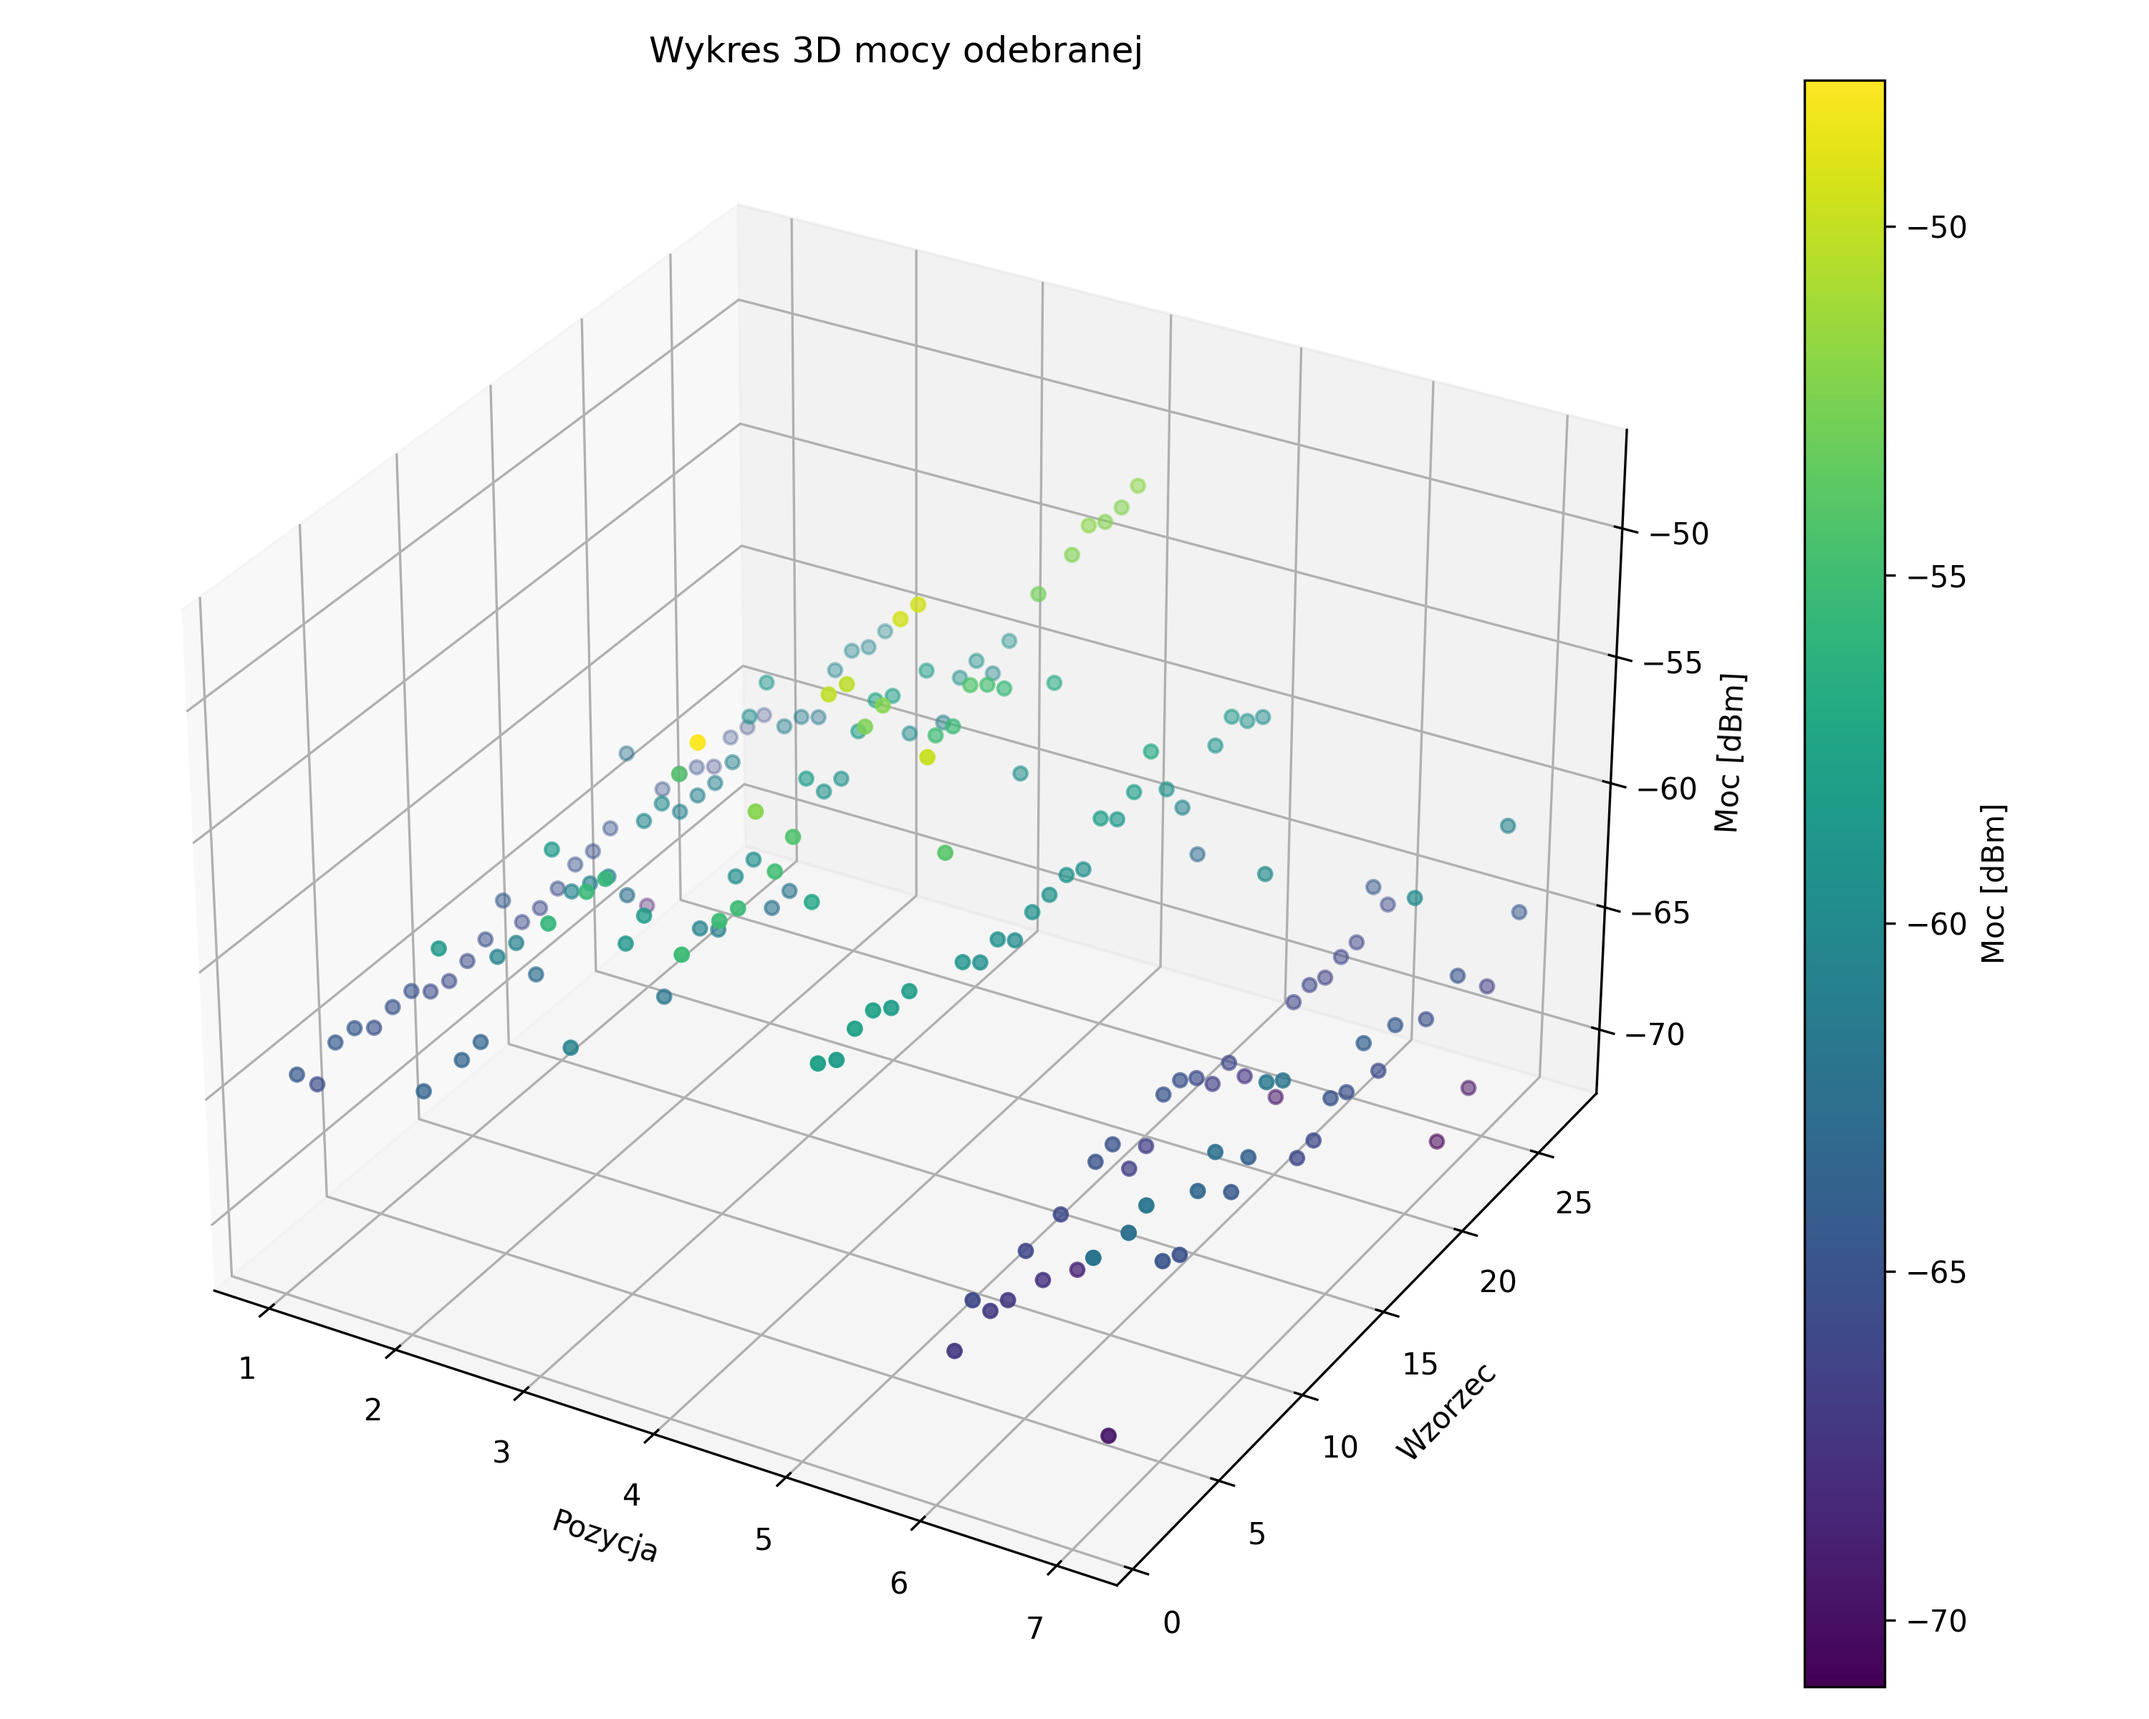
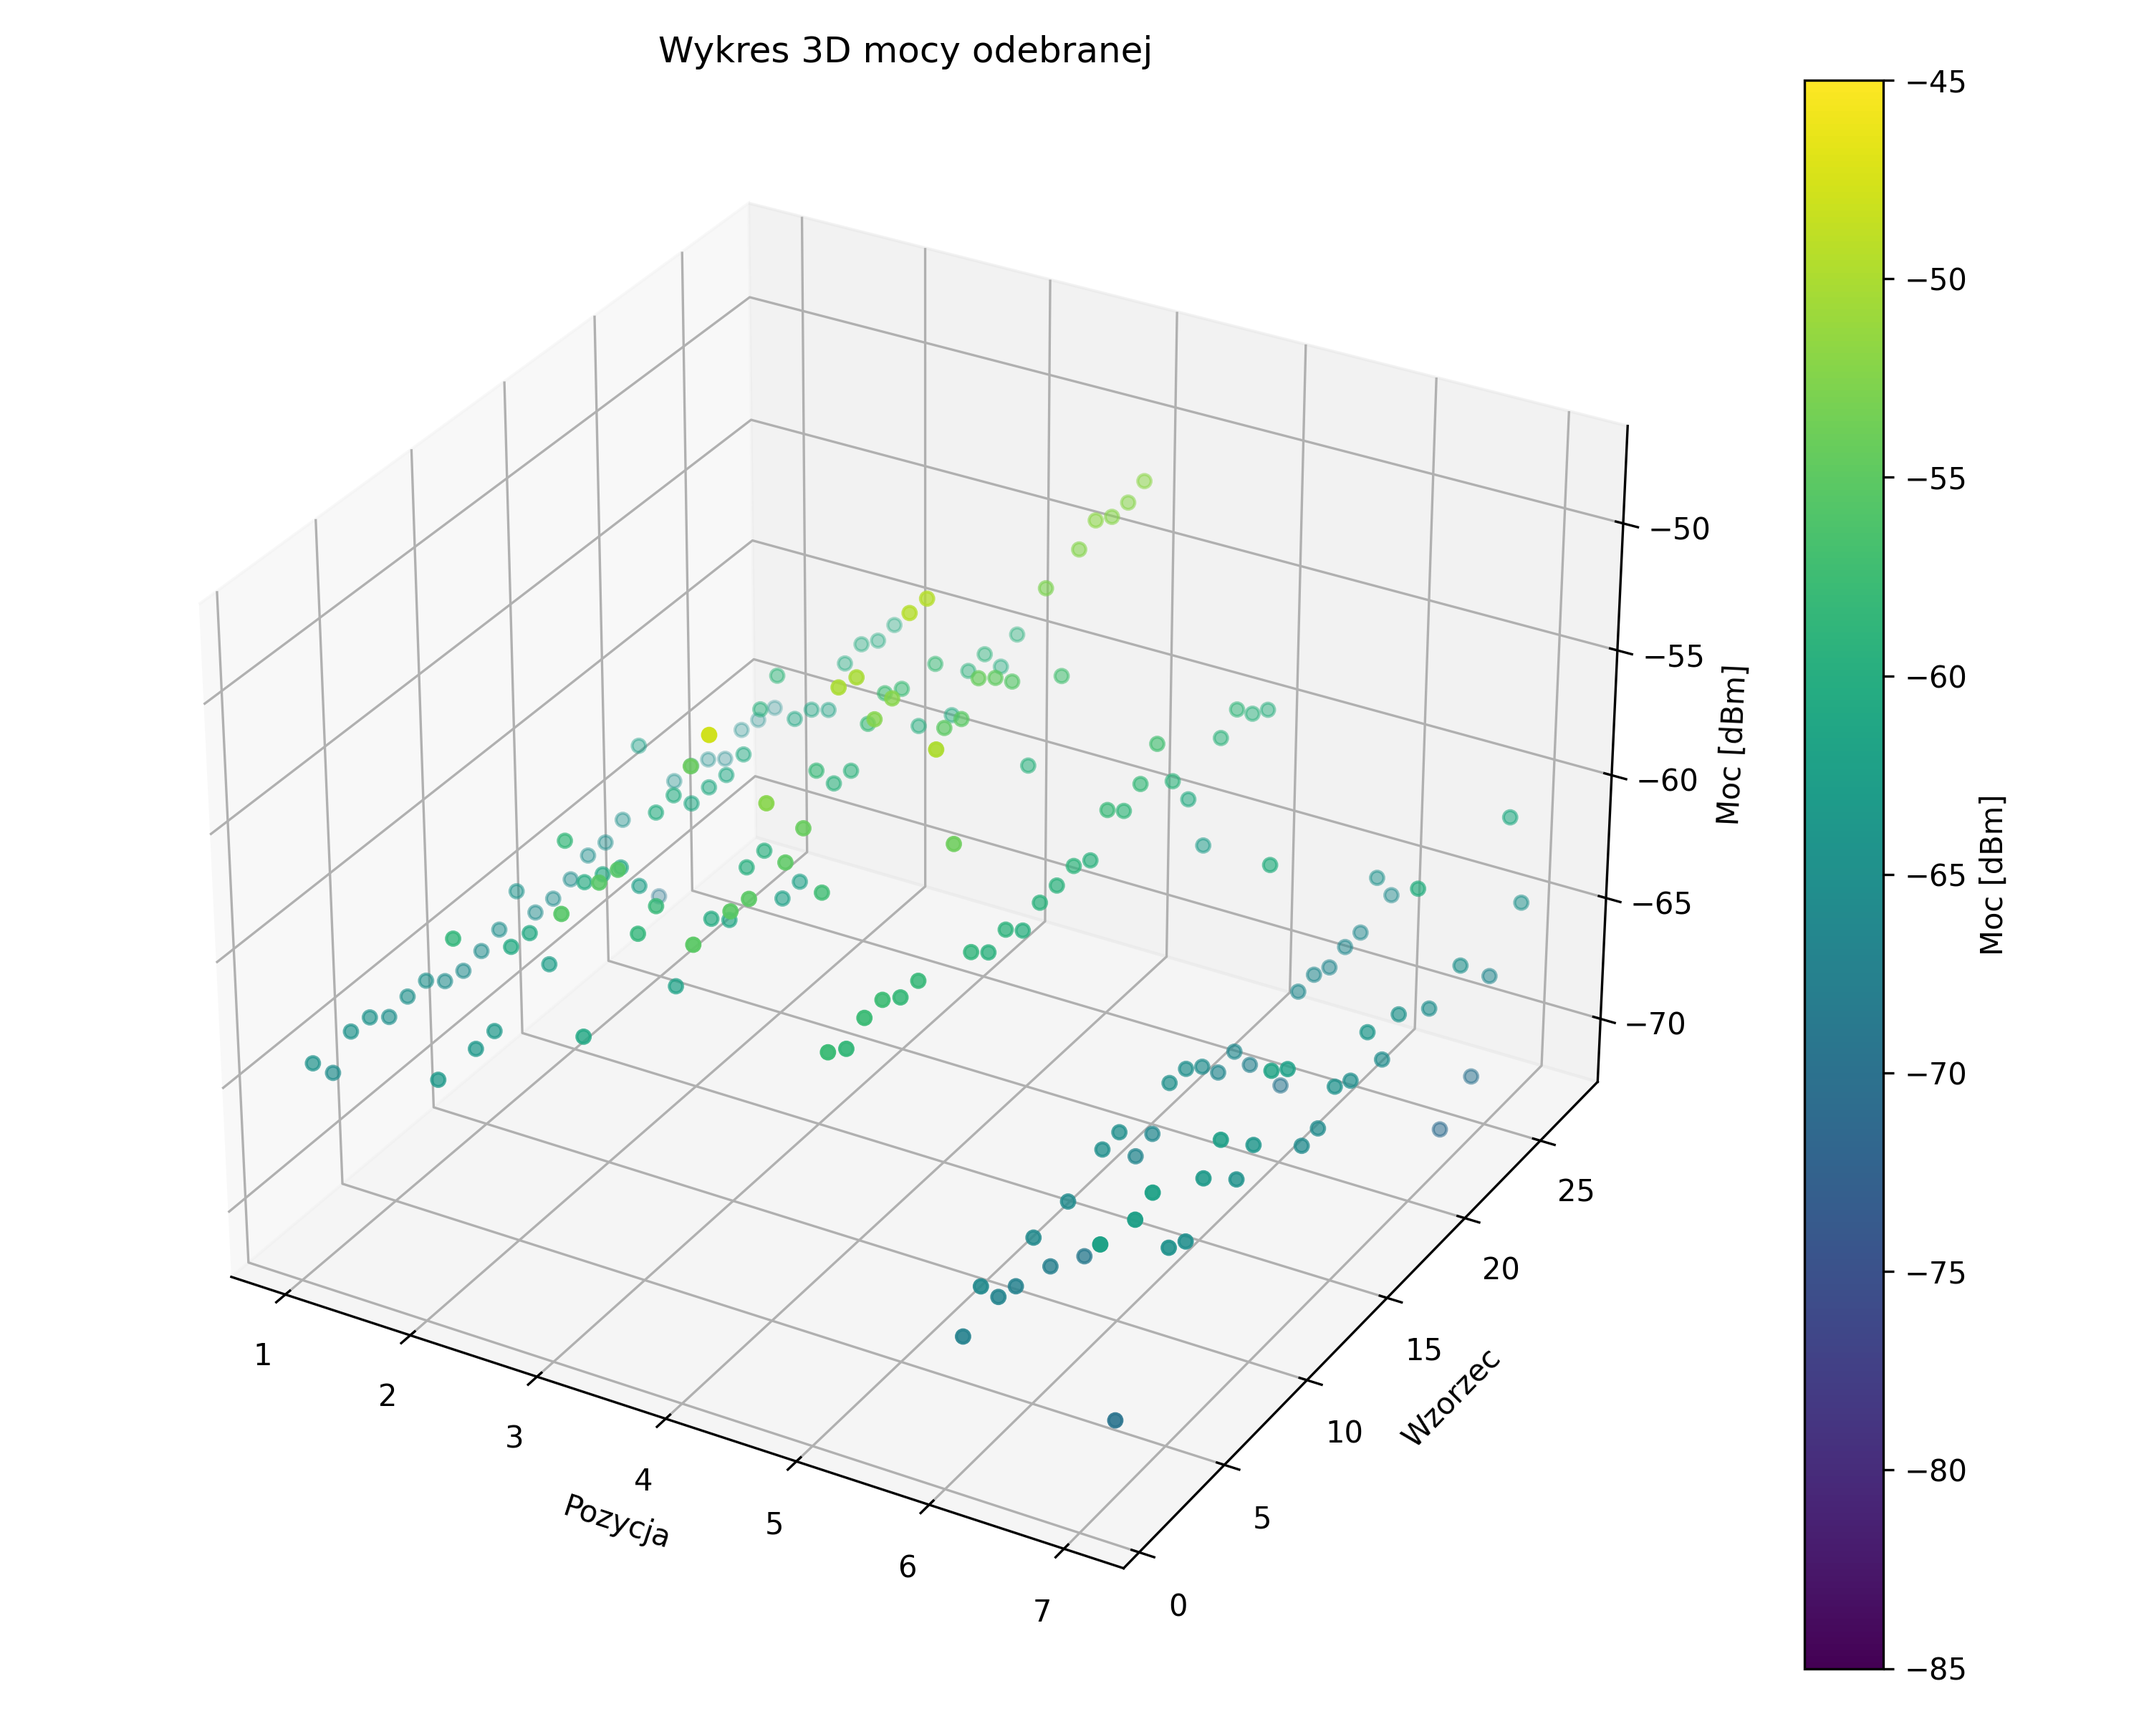
poprawione skale

diff --git a/Suwnica programy i wykresy/combo.py b/Suwnica programy i wykresy/combo.py
@@ -5,21 +5,27 @@ import seaborn as sns
 import os
 
 # Ścieżka do folderu zapisu
-output_folder = "/Users/pawelplaczkiewicz/Documents/Dokumenty – Mac mini (Paweł)/GitHub/Python_RIS/Suwnica/wykresy/112_90"  # <- ZMIEŃ TĘ ŚCIEŻKĘ
+output_folder = "/Users/pawelplaczkiewicz/Documents/Dokumenty – Mac mini (Paweł)/GitHub/Python_RIS/Suwnica programy i wykresy/wykresy/bez_skrzynii"  # <- ZMIEŃ TĘ ŚCIEŻKĘ
 os.makedirs(output_folder, exist_ok=True)
 
 # Wczytaj dane
 df = pd.read_csv(
-    "/Users/pawelplaczkiewicz/Documents/Dokumenty – Mac mini (Paweł)/GitHub/Python_RIS/DANE_Z_POMIAROW/V2X_INFOCOM2024/suwnica_LAB_28_05_25/28_05_25_suwnica_112_90cm.csv",
+    "/Users/pawelplaczkiewicz/Documents/Dokumenty – Mac mini (Paweł)/GitHub/Python_RIS/DANE_Z_POMIAROW/V2X_INFOCOM2024/suwnica_LAB_28_05_25/28_05_suwnica_bez_skrzynii.csv",
     sep=";",
     header=None,
     names=["Pattern", "Position", "Frequency", "Power"],
 )
 
+# Skala kolorów
+vmin = -85
+vmax = -45
+
 # ====== HEATMAPA ======
 plt.figure(figsize=(10, 8))
 pivot = df.pivot(index="Pattern", columns="Position", values="Power")
-sns.heatmap(pivot, cmap="viridis", cbar_kws={"label": "Moc [dBm]"})
+sns.heatmap(
+    pivot, cmap="viridis", vmin=vmin, vmax=vmax, cbar_kws={"label": "Moc [dBm]"}
+)
 plt.title("Mapa mocy odebranej (Pattern vs Position)")
 plt.xlabel("Pozycja")
 plt.ylabel("Wzorzec")
@@ -34,7 +40,7 @@ ax = fig.add_subplot(111, projection="3d")
 x = df["Position"]
 y = df["Pattern"]
 z = df["Power"]
-sc = ax.scatter(x, y, z, c=z, cmap="viridis", marker="o")
+sc = ax.scatter(x, y, z, c=z, cmap="viridis", marker="o", vmin=vmin, vmax=vmax)
 ax.set_title("Wykres 3D mocy odebranej")
 ax.set_xlabel("Pozycja")
 ax.set_ylabel("Wzorzec")
